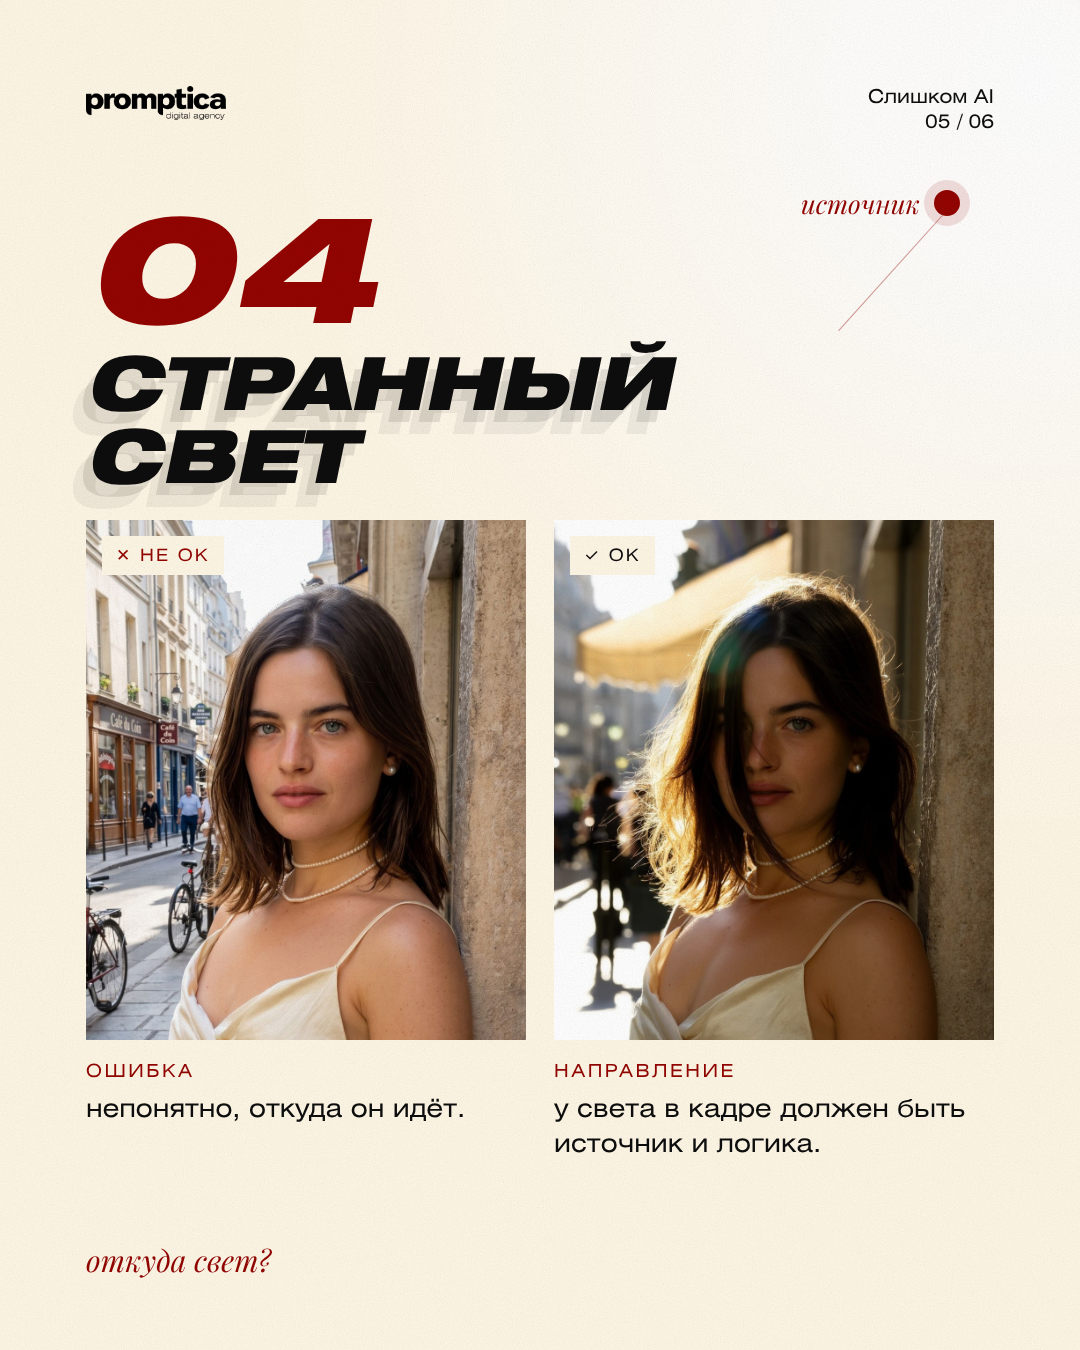
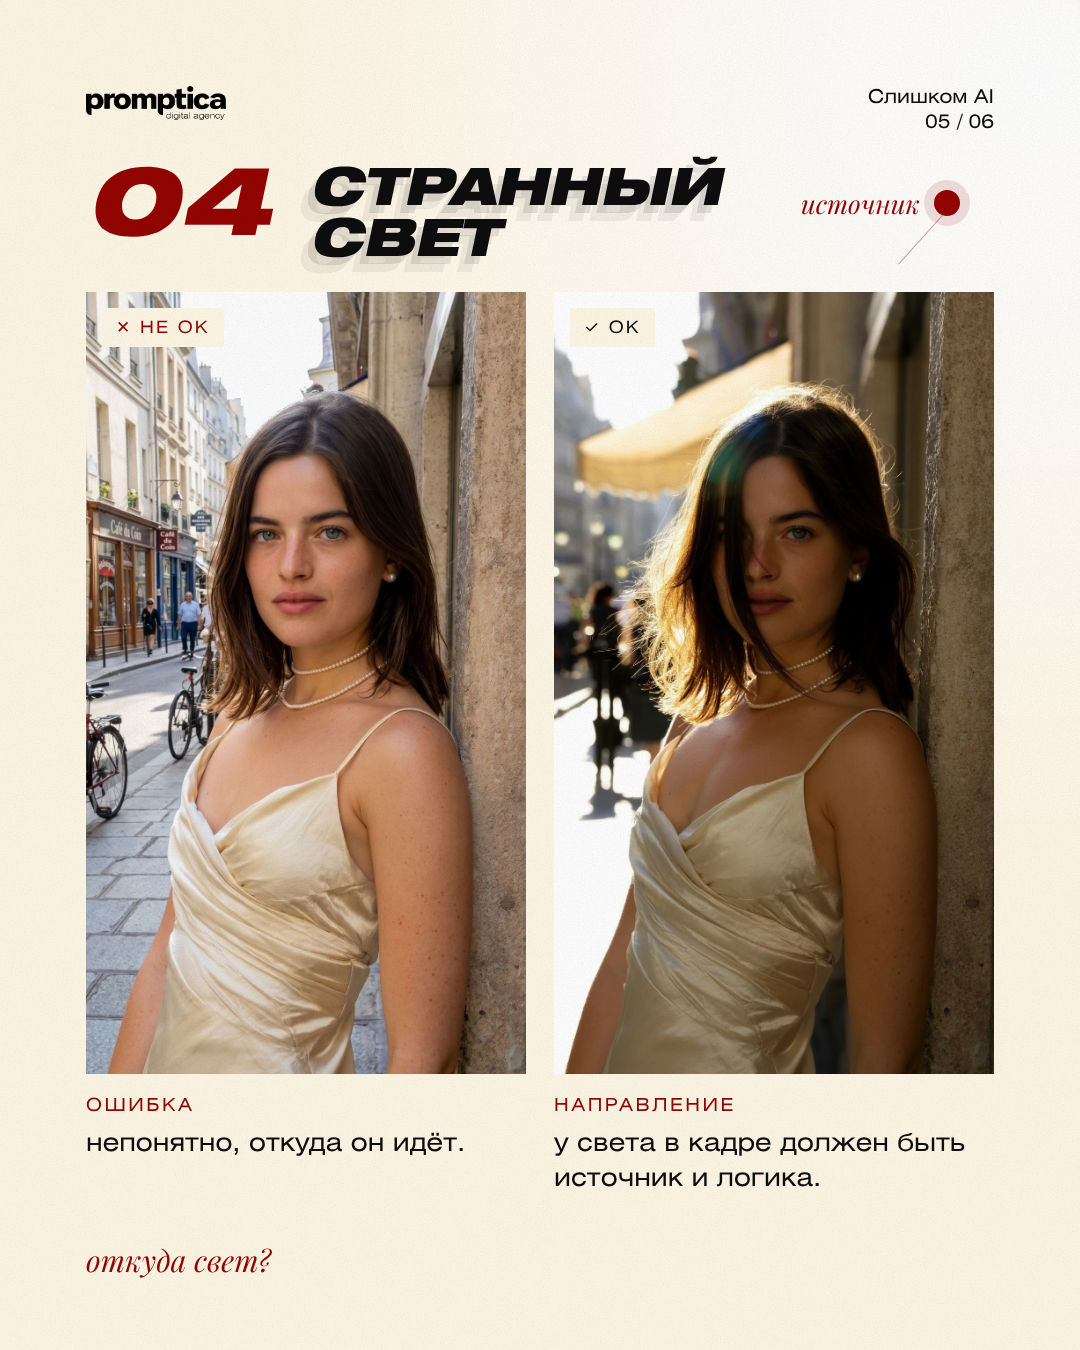
«Слишком AI», слайд «Странный свет»: фото целиком в 9:16
Claude-Session: https://claude.ai/code/session_01V1NUh11xrVMcB1cs4GV2qz

diff --git a/carousels/promptica-too-ai/05.html b/carousels/promptica-too-ai/05.html
@@ -12,6 +12,13 @@
     .src { position: absolute; right: 120px; top: 190px; width: 26px; height: 26px; border-radius: 50%; background: var(--red); box-shadow: 0 0 0 10px rgba(147,4,0,.12); }
     .srcl { position: absolute; right: 160px; top: 186px; font-family: "Playfair", serif; font-style: italic; font-size: 26px; color: var(--red); }
     .ray { position: absolute; right: 134px; top: 212px; width: 1px; height: 160px; background: var(--red); opacity: .4; transform-origin: top; transform: rotate(42deg); }
+  
+    /* слайд с фото 9:16: номер и заголовок в одну строку, фото целиком */
+    .num { top: 150px; font-size: 96px; }
+    .title { top: 160px; left: 310px; font-size: 52px; text-shadow: -7px 8px 0 rgba(13,13,13,.10), -14px 16px 0 rgba(13,13,13,.06); }
+    .ray { height: 70px; }
+    .pair { top: 292px; }
+    .ph { height: auto; aspect-ratio: 9 / 16; }
   </style>
 </head>
 <body>
@@ -21,9 +28,9 @@
     <div class="src"></div><div class="srcl">источник</div><div class="ray"></div>
     <div class="h title">Странный<br>свет</div>
     <div class="pair">
-      <div class="col bad"><div class="ph"><span class="badge">✕ не ок</span><div class="x"></div><div class="hint">фото: свет<br>ниоткуда</div><img src="img/05-bad.jpg" style="object-position:50% 14%" alt="" onerror="this.remove()"></div>
+      <div class="col bad"><div class="ph"><span class="badge">✕ не ок</span><div class="x"></div><div class="hint">фото: свет<br>ниоткуда</div><img src="img/05-bad.jpg" alt="" onerror="this.remove()"></div>
         <div class="cap"><div class="lbl">Ошибка</div><p class="txt">непонятно, откуда он идёт.</p></div></div>
-      <div class="col good"><div class="ph"><span class="badge">✓ ок</span><div class="x"></div><div class="hint">фото: понятный<br>источник света</div><img src="img/05-good.jpg" style="object-position:50% 14%" alt="" onerror="this.remove()"></div>
+      <div class="col good"><div class="ph"><span class="badge">✓ ок</span><div class="x"></div><div class="hint">фото: понятный<br>источник света</div><img src="img/05-good.jpg" alt="" onerror="this.remove()"></div>
         <div class="cap"><div class="lbl">Направление</div><p class="txt">у света в кадре должен быть источник и логика.</p></div></div>
     </div>
     <div class="note">откуда свет?</div>
